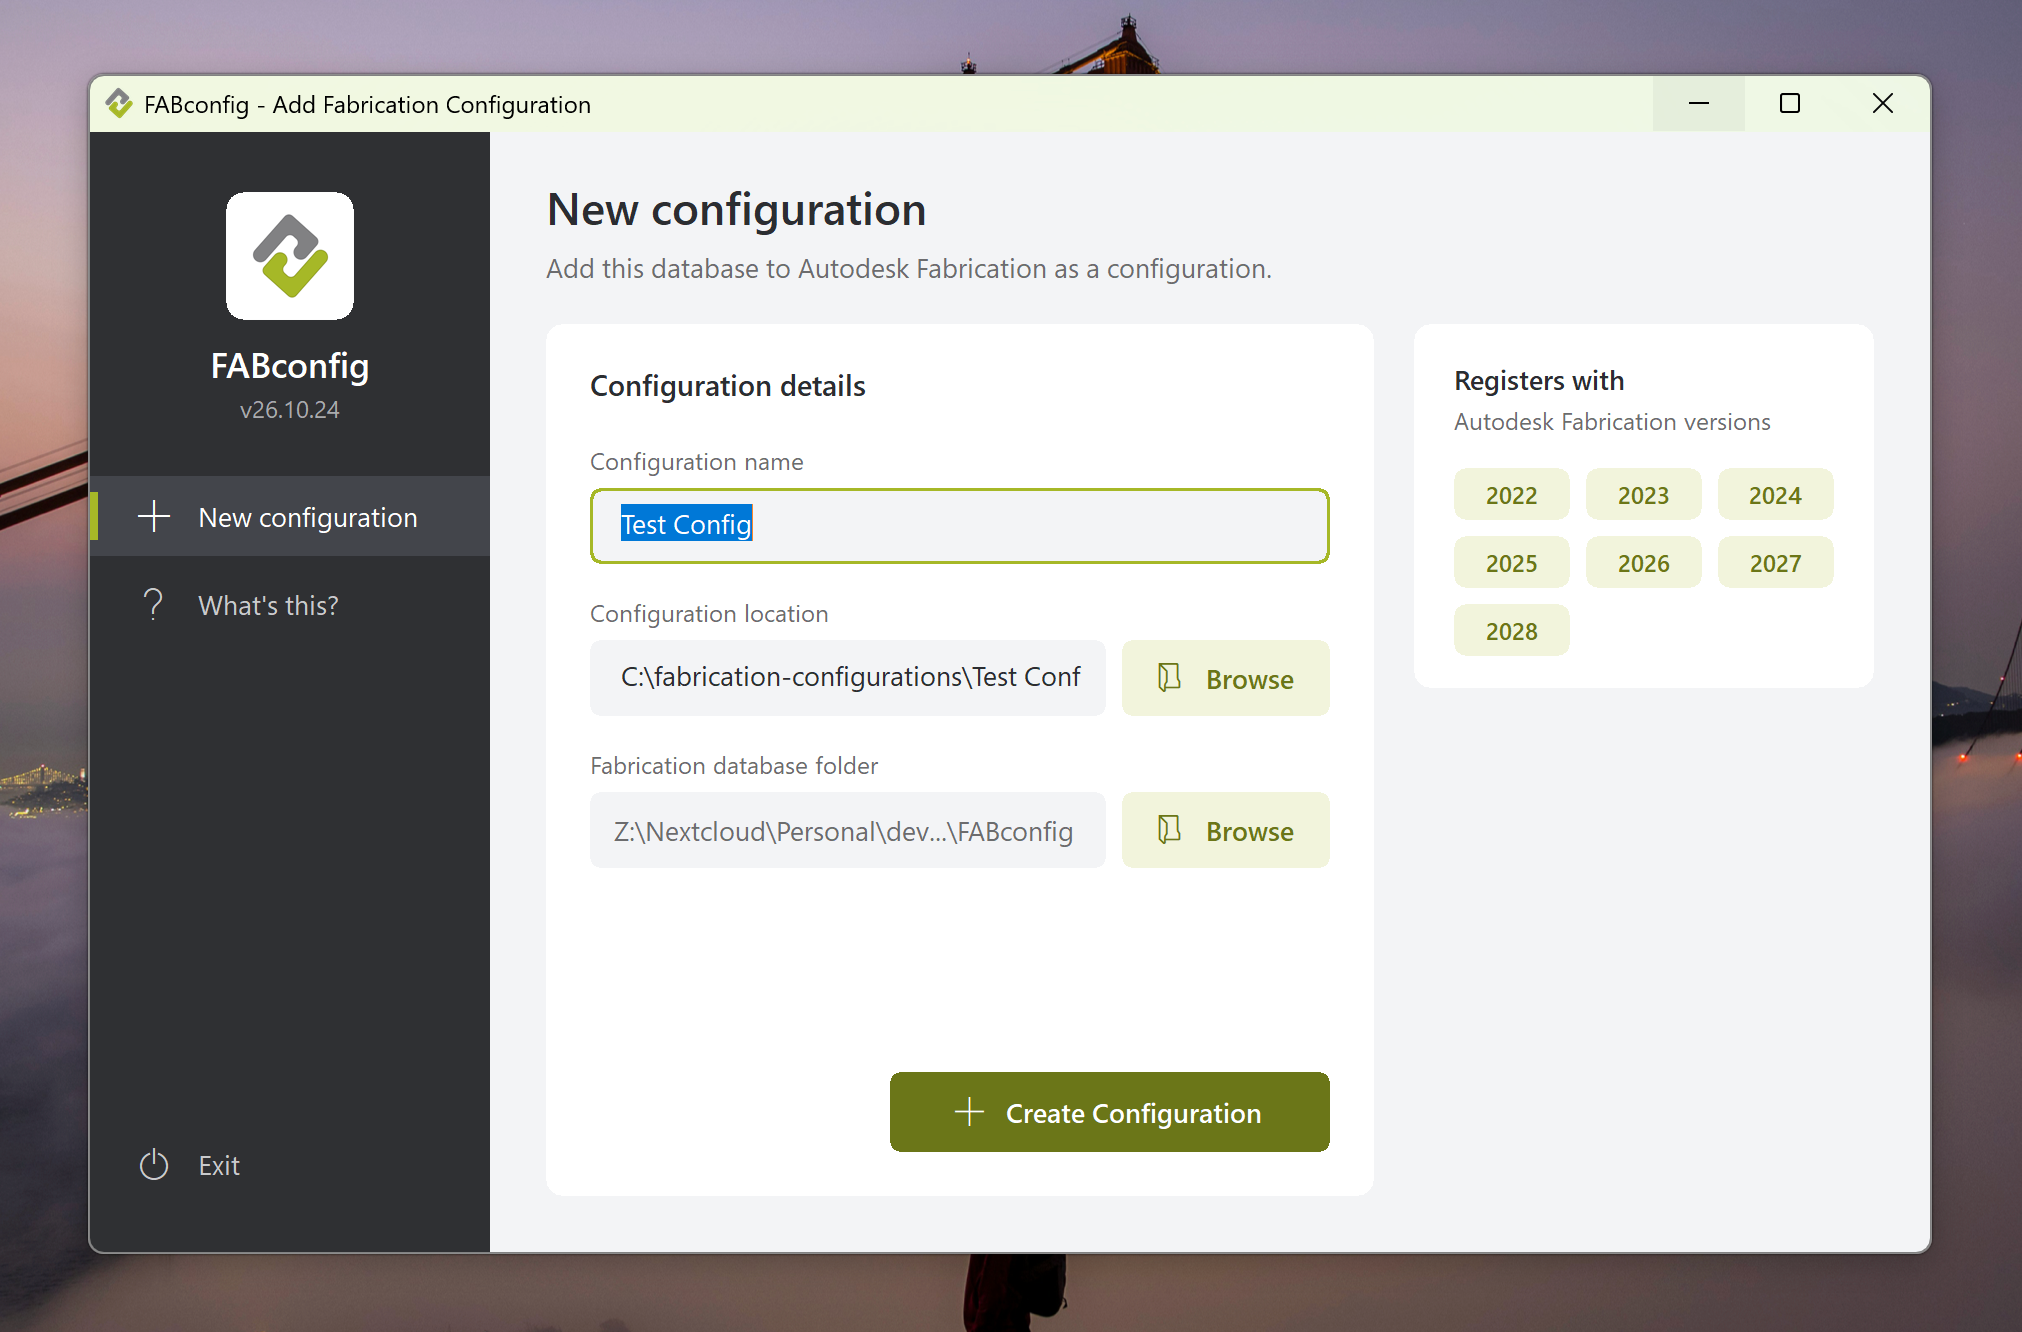
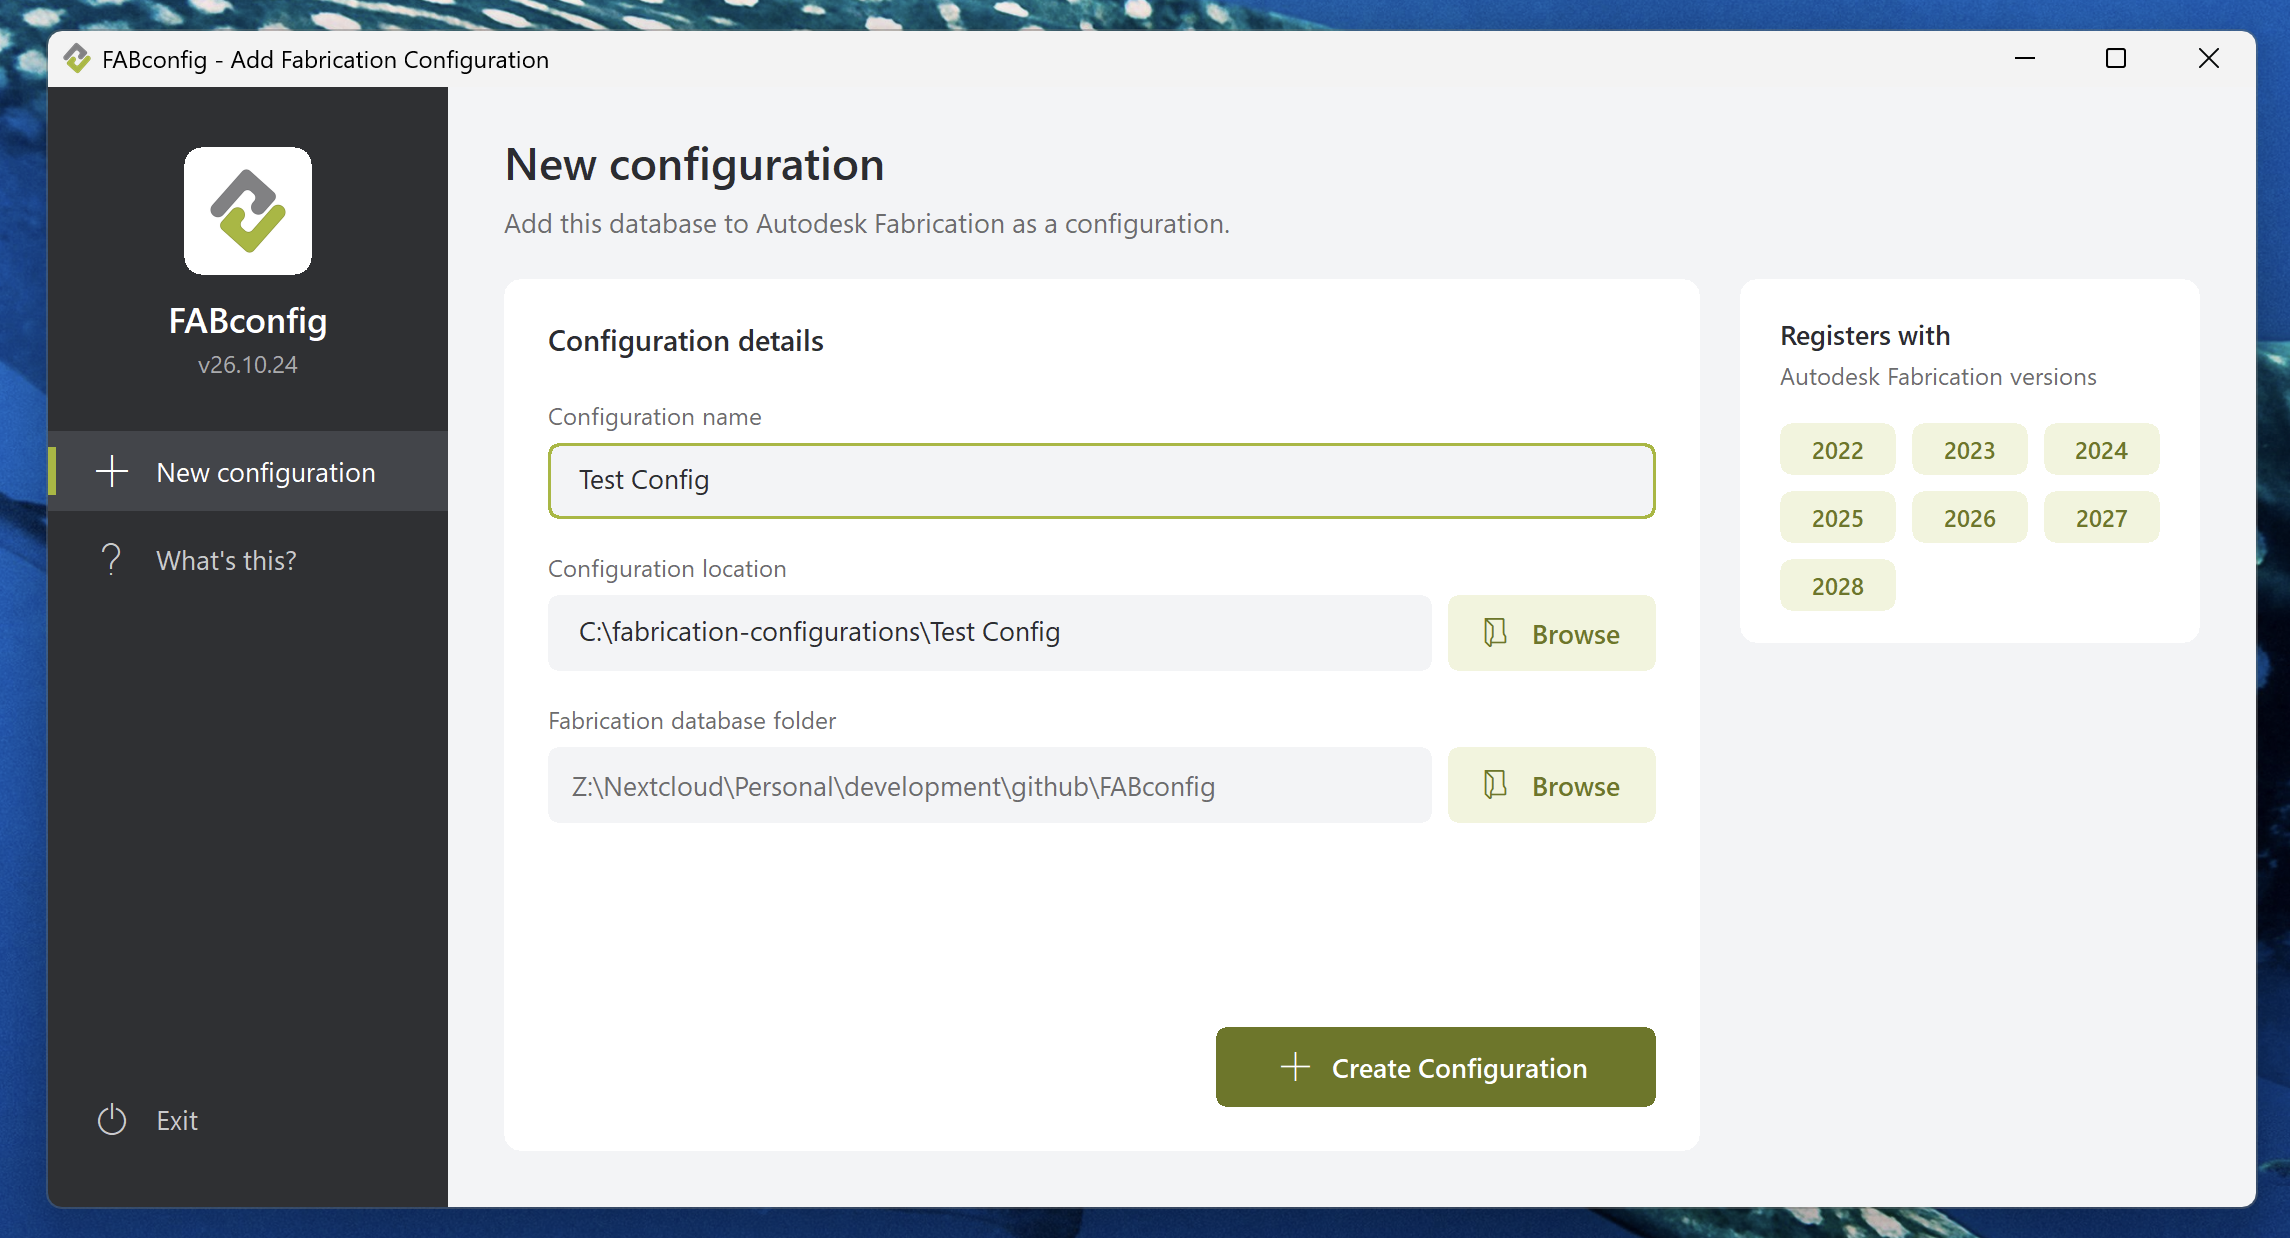
Make the window 20% wider and update the screenshot
Long configuration and database paths now fit in their fields.

diff --git a/CHANGELOG.md b/CHANGELOG.md
@@ -13,6 +13,7 @@ What changed in each version of FABconfig. Versions are dates (`vYY.MM.DD`); see
 - The compiled `.exe` has the sidebar logo built in, so it no longer needs the `Resources` folder next to it.
 
 ### Changed
+- The window is 20% wider, so long configuration and database paths fit.
 - The configuration location can't be inside the database folder. (Tools that mirror the database, such as `robocopy /MIR`, would delete it.)
 - A configuration folder (one whose `map.ini` points to a database somewhere else) is no longer accepted as a database folder.
 - Only `map.ini` and `config.png` have their read-only flag cleared, instead of every file in the configuration folder.
